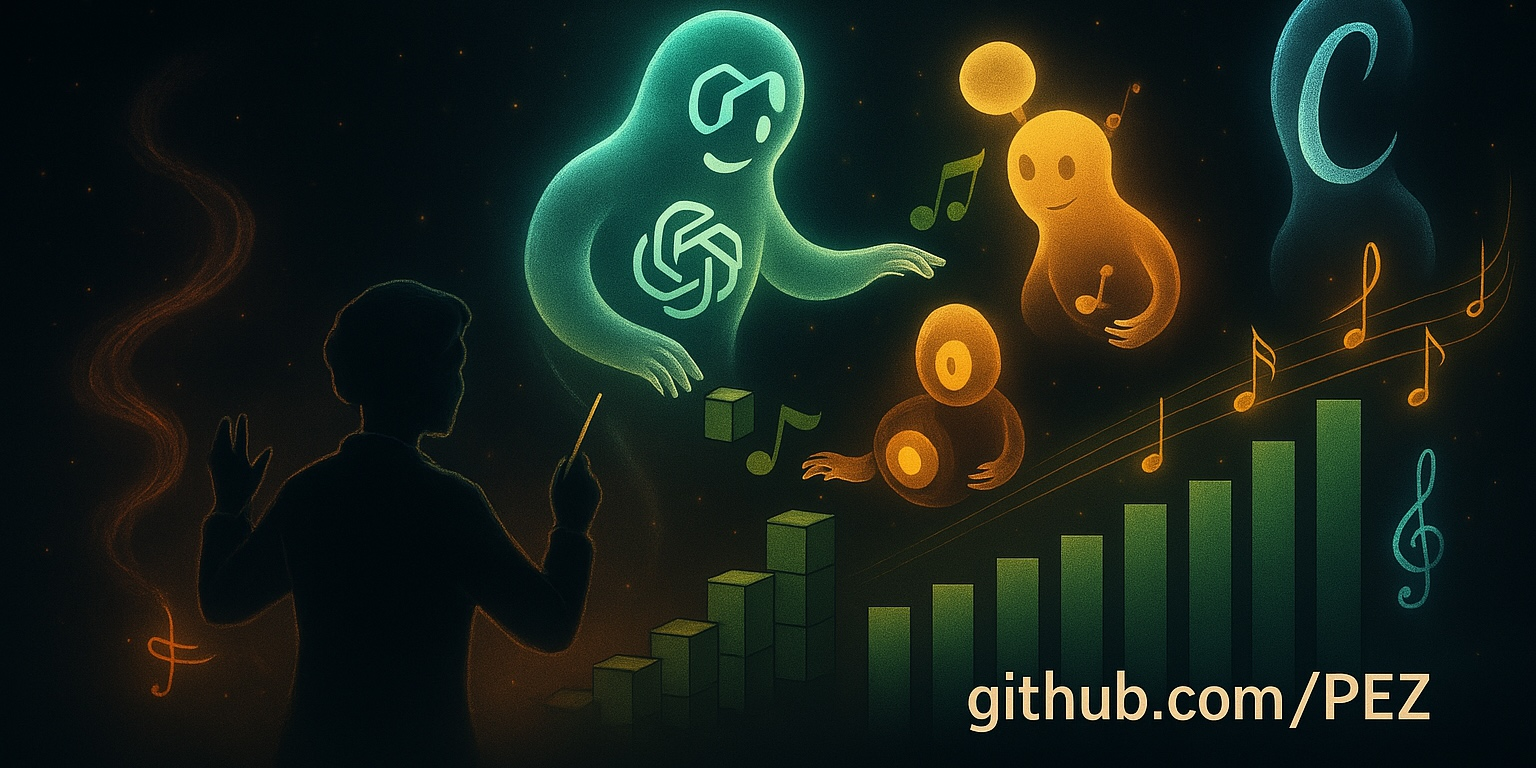
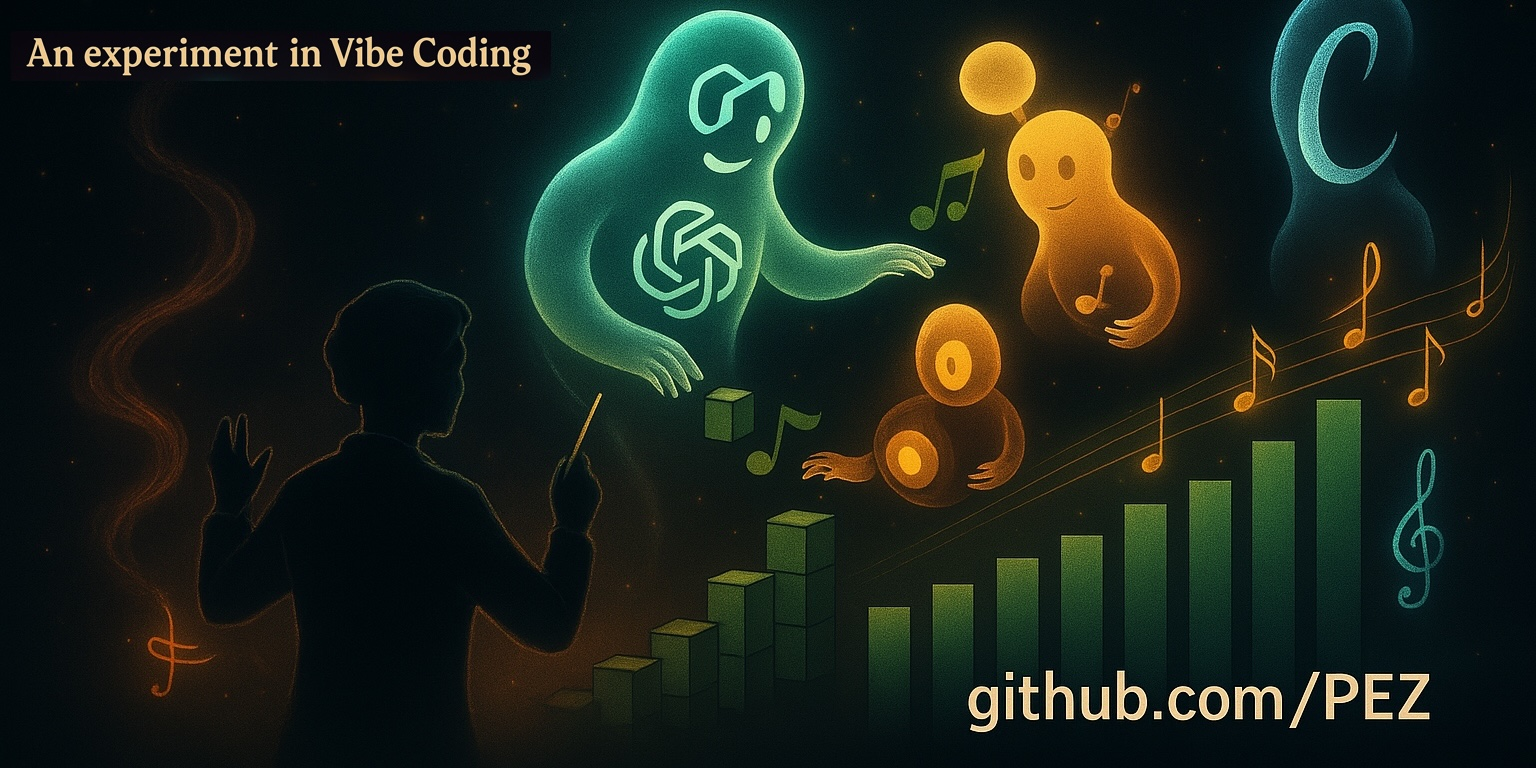
Add social cards

Changed region(s): [[0.0, 0.0312, 0.3438, 0.0938]]

diff --git a/index.html b/index.html
@@ -3,8 +3,22 @@
 <head>
   <meta charset="UTF-8" />
   <meta name="viewport" content="width=device-width, initial-scale=1.0" />
-  <title>3D GitHub Contributions</title>
+  <title>Vibe Coded Contributions graph</title>
   <link rel="stylesheet" href="./style.css" />
+
+  <!-- Social Sharing Meta Tags -->
+  <meta property="og:title" content="A Vibe Coded GitHub Contributions Graph" />
+  <meta property="og:description" content="Built by ChatGPT and other LLMs. Directed by PEZ." />
+  <meta property="og:image" content="https://pez.github.io/github-contributions/vibe-coding-graph-sc.jpg" />
+  <meta property="og:url" content="https://pez.github.io/github-contributions/" />
+  <meta property="og:type" content="website" />
+  <meta property="og:site_name" content="Vibe GitHub Graph" />
+
+  <!-- Twitter Card Meta Tags -->
+  <meta name="twitter:card" content="summary_large_image" />
+  <meta name="twitter:title" content="A Vibe Coded GitHub Contributions Graph" />
+  <meta name="twitter:description" content=" Built by ChatGPT and other LLMs. Directed by PEZ." />
+  <meta name="twitter:image" content="https://pez.github.io/github-contributions/vibe-coding-graph-sc.jpg" />
 </head>
 <body>
   <div id="info">github.com/PEZ</div>
